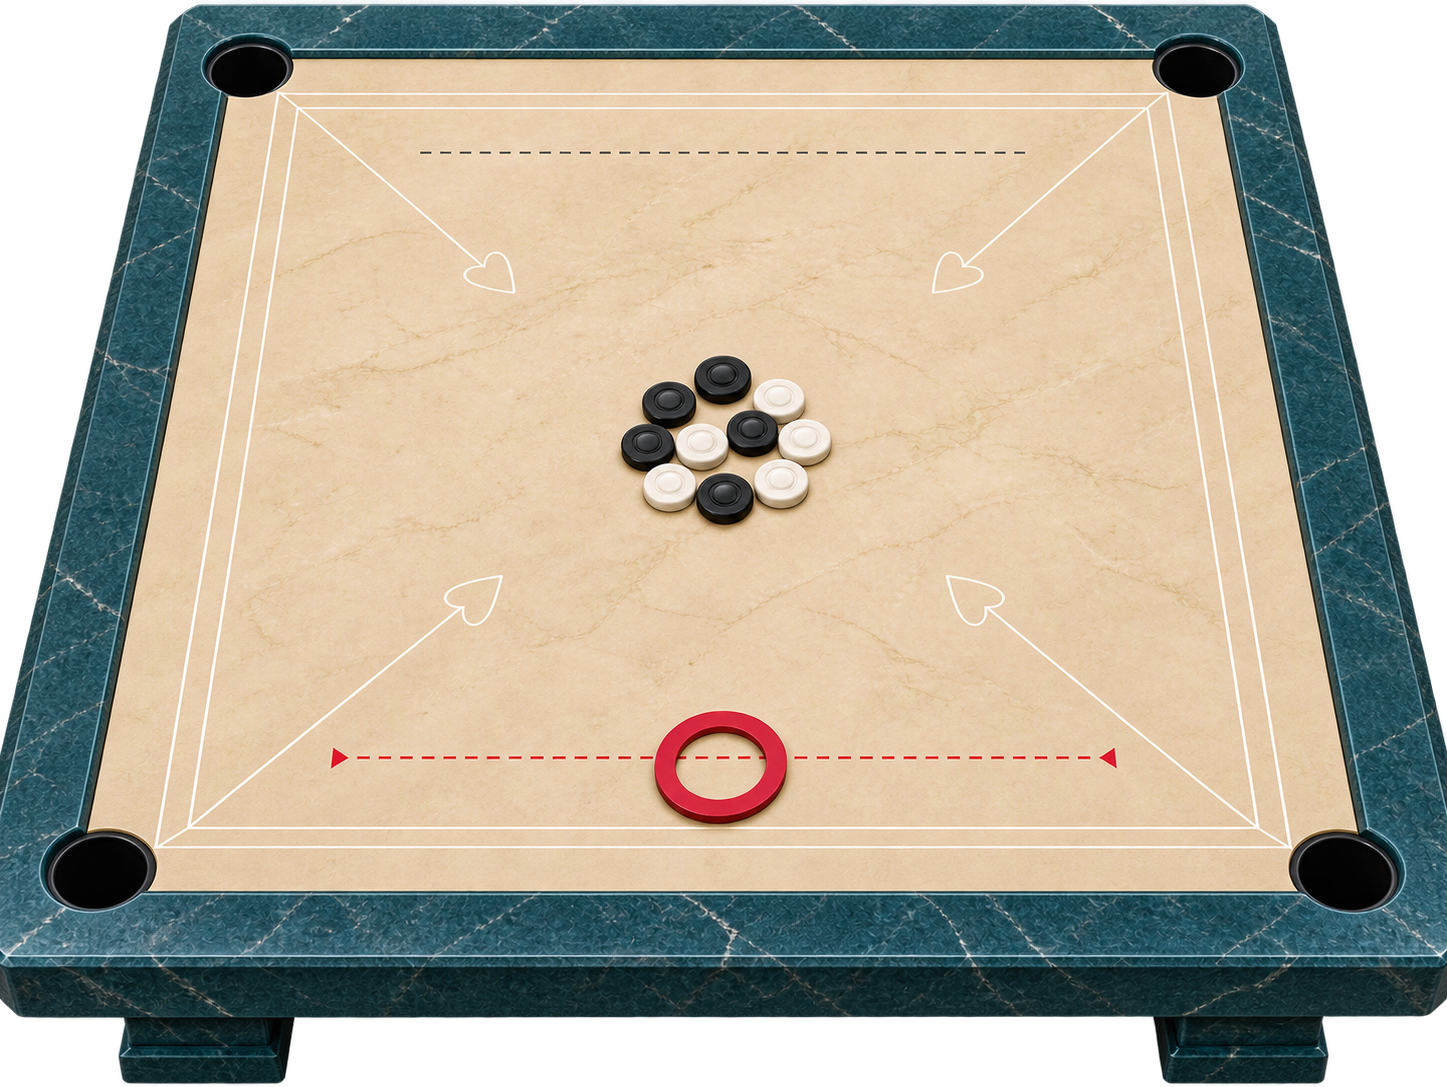
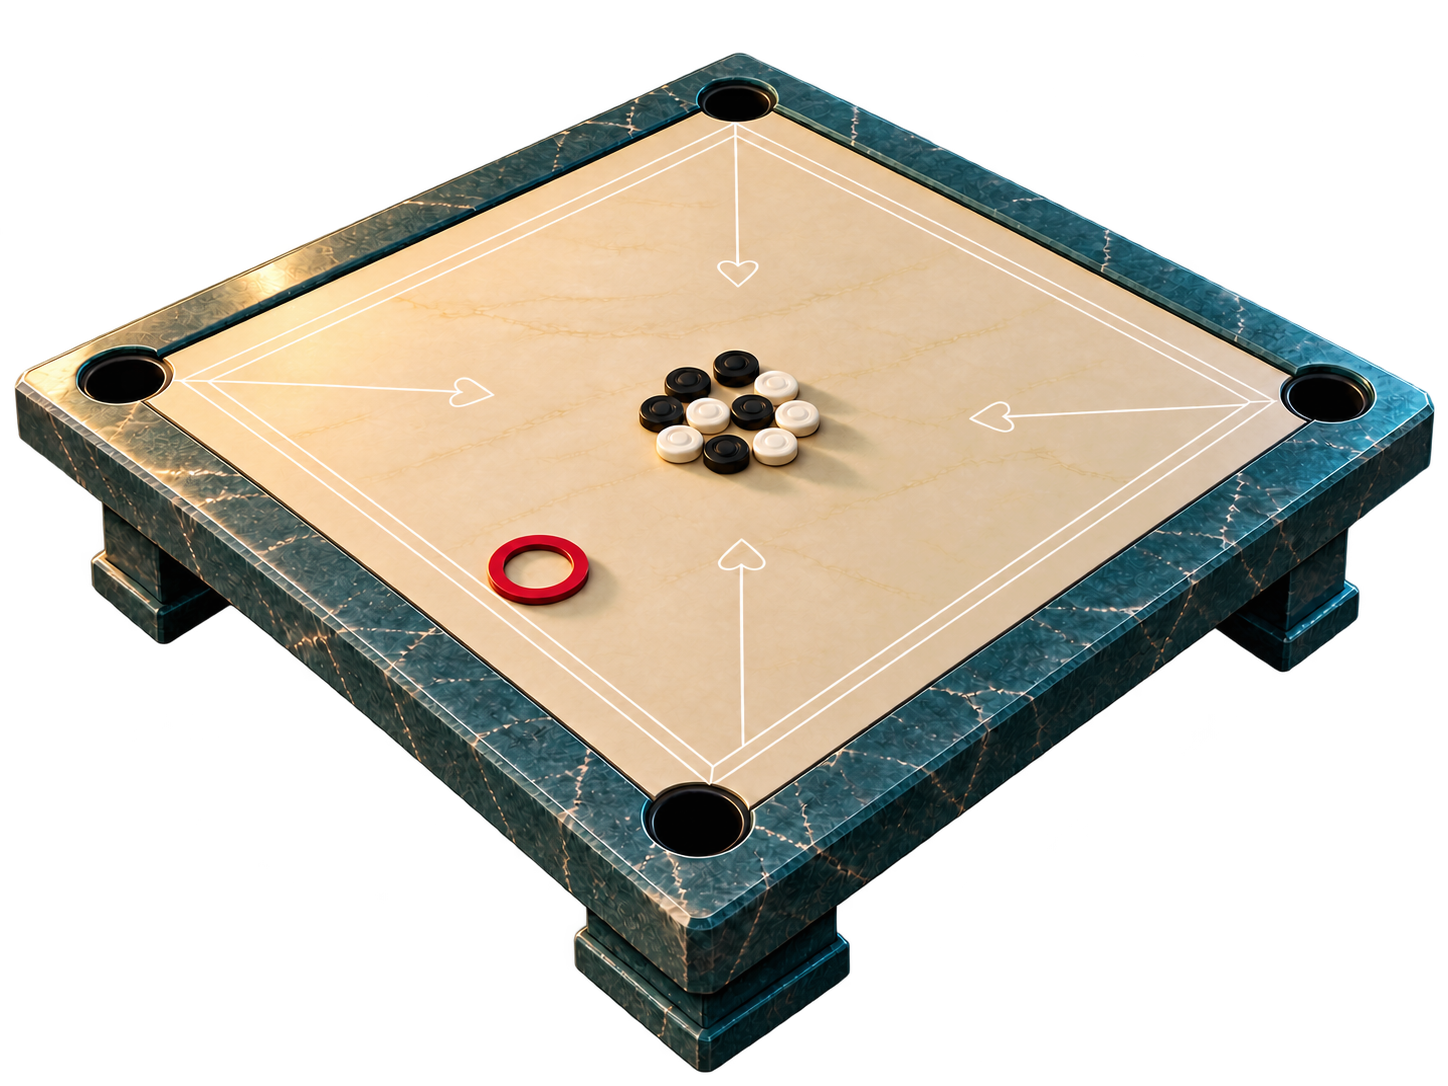
Use cinematic 45-degree home table without dashed baselines

diff --git a/public/js/arcade.js b/public/js/arcade.js
@@ -9,7 +9,7 @@ window.RCArcade = (() => {
     const legacy=make('div','arc-legacy');legacy.hidden=true;
     for(const child of [...home.children])if(child!==header){legacy.append(child);}
     const brand=make('div','arc-brand');brand.append(logo);
-    const hero=make('div','arc-hero'),tableImage=make('img','arc-table-image');tableImage.id='homeBoard';tableImage.src='img/classic-board-3d.png';tableImage.width=1448;tableImage.height=1086;hero.append(tableImage);
+    const hero=make('div','arc-hero'),tableImage=make('img','arc-table-image');tableImage.id='homeBoard';tableImage.src='img/classic-board-3d.png?v=3';tableImage.width=1448;tableImage.height=1086;hero.append(tableImage);
     let selectedMode='online';
     const modes=make('div','arc-modes');modes.setAttribute('role','group');
     const online=action('homeModeOnline','world',()=>selectMode('online')),bot=action('homeModeBot','robot',()=>selectMode('bot'));modes.append(online,bot);

diff --git a/public/game.html b/public/game.html
@@ -335,6 +335,6 @@
 <script src="js/friend-share.js?v=1"></script>
 <script src="js/backup.js?v=1"></script>
 <script src="js/connection-ui.js?v=1"></script>
-<script src="js/arcade.js?v=1"></script>
+<script src="js/arcade.js?v=2"></script>
 </body>
 </html>
